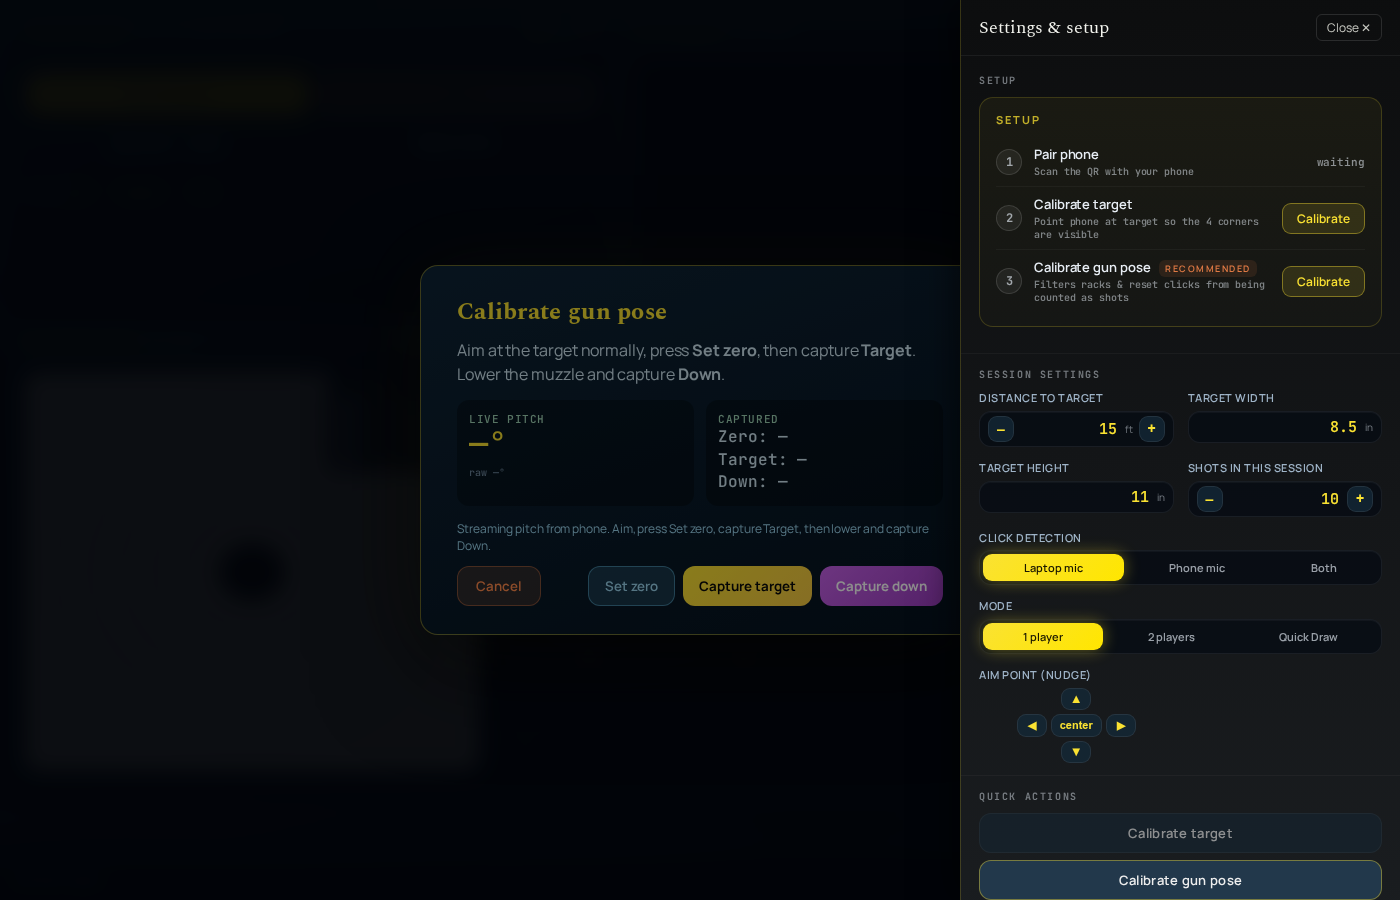
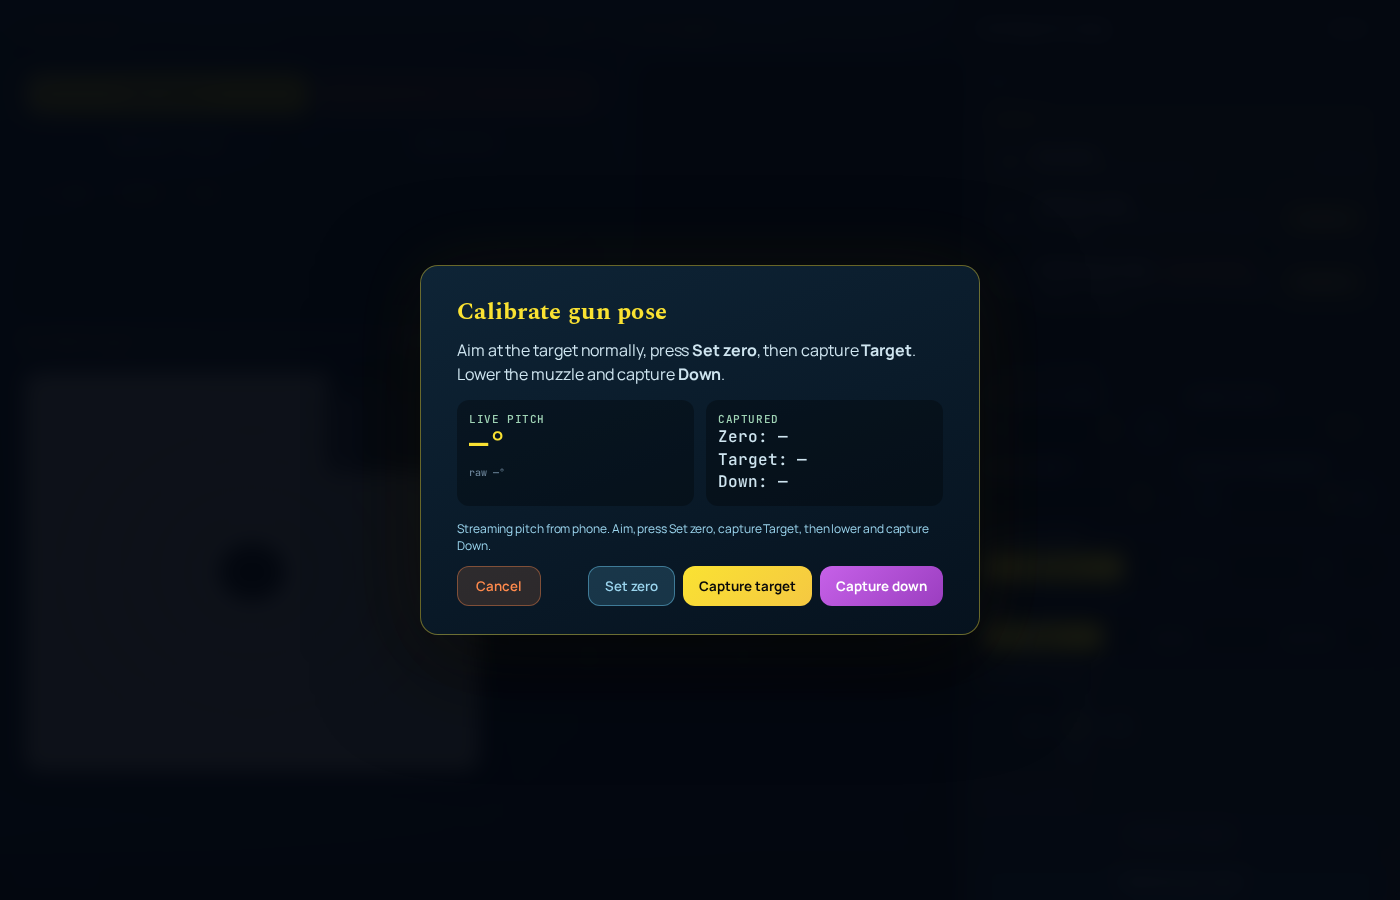
Quick Draw: trigger ready/shot on any lift off 'down' pose (no precise target gating)

diff --git a/index.html b/index.html
@@ -7009,23 +7009,67 @@ const QuickDraw = (function(){
     return Math.acos(cosA) * 180/Math.PI - 90; // shift so level ~ 0°
   }
   function isCalibrated(){ return (_gTarget && _gDown && _rotAxis) || (_pitchTarget !== null && _pitchDown !== null); }
+  // ---- READY / DRAW logic ----------------------------------------------------
+  // "Muzzle down (ready)" means the gun is pointed AT the calibrated down pose OR LOWER.
+  // We don't gate on hitting a precise target angle on the way back up — any meaningful
+  // lift off the down pose counts as the draw. This is what the user asked for: the system
+  // should fire on "anywhere below the down position", not look for a specific angle.
+  // We pick a sign-agnostic implementation so the math works regardless of mount orientation.
+  //   - If _pitchTarget >= _pitchDown (typical: target near 0°, down negative):
+  //       down = pitch <= _pitchDown + SLACK_DOWN
+  //       lift  = pitch  > _pitchDown + LIFT_DELTA
+  //   - Else (sign-flipped mount):
+  //       down = pitch >= _pitchDown - SLACK_DOWN
+  //       lift  = pitch  < _pitchDown - LIFT_DELTA
+  // SLACK_DOWN: small tolerance so the user doesn't have to hold perfectly still at the
+  //             captured angle to register ready (also lets "deeper" angles still count).
+  // LIFT_DELTA: minimum angular rise off down before we treat it as a draw — keeps small
+  //             tremors from triggering false shots. Capped at half the captured spread so
+  //             even a small spread still works.
+  // Slack is normally 8°, but never more than 40% of the captured spread — otherwise a
+  // tiny spread calibration (e.g. user captured target -4° / down +1°) would make every
+  // pose count as "down" because the slack swallows the whole range.
+  function _slackDown(){
+    const spread = Math.abs((_pitchTarget||0) - (_pitchDown||0));
+    return Math.max(2, Math.min(8, spread * 0.4));
+  }
+  function _liftDelta(){
+    if (!isCalibrated()) return 12;
+    const spread = Math.abs((_pitchTarget||0) - (_pitchDown||0));
+    // 50% of the spread, clamped to [6°, 20°]
+    return Math.max(6, Math.min(20, spread * 0.5));
+  }
+  function isMuzzleDown(pitch){
+    if (!isCalibrated()) return pitch <= -45;
+    const slack = _slackDown();
+    if (_pitchTarget >= _pitchDown){
+      return pitch <= (_pitchDown + slack);
+    } else {
+      return pitch >= (_pitchDown - slack);
+    }
+  }
+  // "On target" for the draw transition just means: meaningfully lifted off down.
+  // We do NOT require hitting the captured target angle — the laser hit is the real
+  // accuracy measure, the IMU only times the draw motion.
+  function isOnTarget(pitch){
+    if (!isCalibrated()) return pitch >= -10;
+    const delta = _liftDelta();
+    if (_pitchTarget >= _pitchDown){
+      return pitch >= (_pitchDown + delta);
+    } else {
+      return pitch <= (_pitchDown - delta);
+    }
+  }
+  // Back-compat exports (some logging/UI may still read these).
   function thresholdHold(){
-    if (!isCalibrated()) return -45; // safe fallback
-    return _pitchDown + (_pitchTarget - _pitchDown) * 0.35;
+    if (!isCalibrated()) return -45;
+    const slack = _slackDown();
+    return (_pitchTarget >= _pitchDown) ? (_pitchDown + slack) : (_pitchDown - slack);
   }
   function thresholdOnTarget(){
     if (!isCalibrated()) return -10;
-    return _pitchTarget - (_pitchTarget - _pitchDown) * 0.20;
-  }
-  // "Muzzle is below threshold" — because we calibrate, just compare numerically.
-  // If pitchTarget > pitchDown, muzzle-down = pitch <= holdThresh. Otherwise reverse.
-  function isMuzzleDown(pitch){
-    if (!isCalibrated()) return pitch <= -45;
-    return (_pitchTarget >= _pitchDown) ? (pitch <= thresholdHold()) : (pitch >= thresholdHold());
-  }
-  function isOnTarget(pitch){
-    if (!isCalibrated()) return pitch >= -10;
-    return (_pitchTarget >= _pitchDown) ? (pitch >= thresholdOnTarget()) : (pitch <= thresholdOnTarget());
+    const delta = _liftDelta();
+    return (_pitchTarget >= _pitchDown) ? (_pitchDown + delta) : (_pitchDown - delta);
   }
 
   // ----- Phone -> laptop messaging -----

diff --git a/qa/verify_drawer_and_guncal.js b/qa/verify_drawer_and_guncal.js
@@ -37,8 +37,7 @@ const { chromium } = require('playwright');
   if (gc) {
     await gc.click();
     await page.waitForTimeout(600);
-    // The drawer scrim sits on top — push it under so it doesn't intercept modal clicks during this test
-    await page.evaluate(() => { const s = document.getElementById('drawer-scrim'); if (s) s.style.display = 'none'; const d = document.getElementById('settings-drawer'); if (d) d.style.display = 'none'; });
+
     const modal = await page.$('#guncal-modal');
     if (modal) {
       await modal.screenshot({ path: 'qa/verify-guncal-3buttons.png' });
